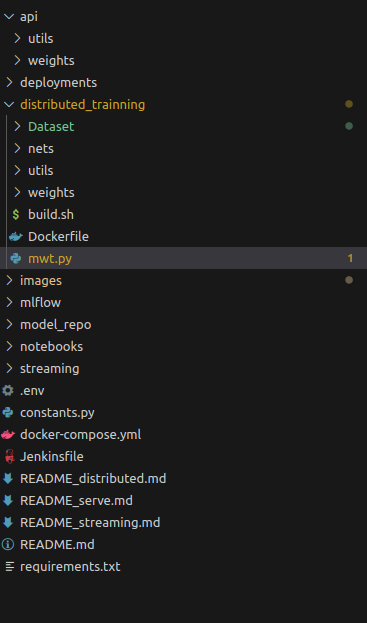
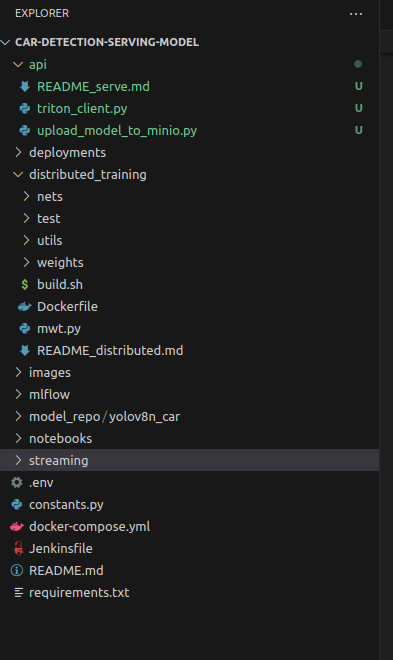
update

Changed region(s): [[0.0, 0.0, 1.0, 0.9149], [0.8992, 0.0915, 0.9591, 0.2135]]

diff --git a/api/README_serve.md b/api/README_serve.md
@@ -94,7 +94,7 @@ To make a prediction, do the following steps:
     ```
 2. Test your newly created modelmesh-serving service
     ```shell
-    python utils/quickstart/client.py
+    python api/triton_client.py
     ```
 
     **Note:** Don't forget to replace your cookie ;)
